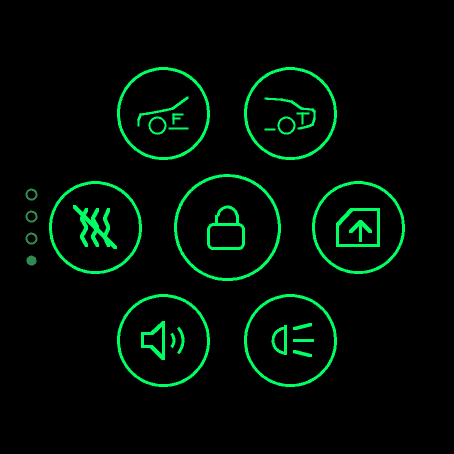
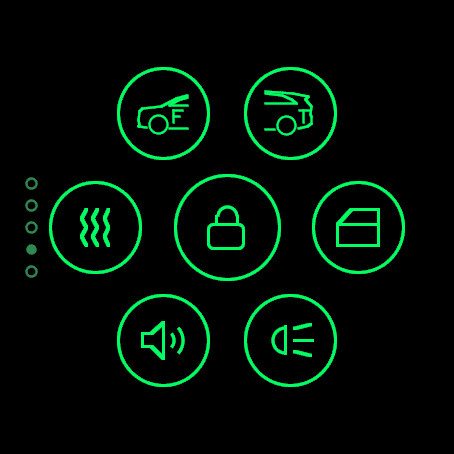
Windows: choose close, lower or vent, each with a confirm tap (#102)
The window icon on the Actions page opens a second screen with close, lower and vent. The phone sends the car's
AUTO_UP_ALL, AUTO_DOWN_ALL and VENT_ALL; the last two only answer "sent". The icon is now a door window, and the
amber warning icon matches it.

diff --git a/android/app/src/main/java/io/github/doubletwist13/orbit/Controller.kt b/android/app/src/main/java/io/github/doubletwist13/orbit/Controller.kt
@@ -14,6 +14,7 @@ import kotlinx.coroutines.flow.asStateFlow
 import kotlinx.coroutines.flow.update
 import kotlinx.coroutines.launch
 import kotlinx.coroutines.withContext
+import mobilegateway.protos.VehicleStateServiceOuterClass.WindowSwitchState
 import java.io.IOException
 
 data class UiState(
@@ -184,7 +185,15 @@ class Controller(context: Context) {
         "flash" -> command("Sending lights", null, progress) { s -> client.flashLights(token(), s.vehicleId) }
         // confirmed by the car's window positions; a car that reports none answers after the next status read
         "windows_close" -> command("Closing windows", { it.windowsClosed != false }, progress) { s ->
-            client.closeWindows(token(), s.vehicleId)
+            client.controlWindows(token(), s.vehicleId, WindowSwitchState.WINDOW_SWITCH_STATE_AUTO_UP_ALL)
+        }
+        // shortcut: no read-back, so "sent" is all we know. A vent stops at no position the car names, and a repeat
+        // vents further; upgrade once a real car shows what the window positions read after each.
+        "windows_vent" -> command("Venting windows", null, progress) { s ->
+            client.controlWindows(token(), s.vehicleId, WindowSwitchState.WINDOW_SWITCH_STATE_VENT_ALL)
+        }
+        "windows_down" -> command("Lowering windows", null, progress) { s ->
+            client.controlWindows(token(), s.vehicleId, WindowSwitchState.WINDOW_SWITCH_STATE_AUTO_DOWN_ALL)
         }
         // read back from the car's HVAC block like the lock is
         "pet_on", "pet_off" -> {
@@ -317,7 +326,8 @@ class Controller(context: Context) {
     private companion object {
         val WATCH_COMMANDS = setOf(
             "status", "lock", "unlock", "climate_on", "climate_off", "frunk_open", "frunk_close", "trunk_open",
-            "trunk_close", "horn", "flash", "windows_close", "pet_on", "pet_off", "charge_start", "charge_stop",
+            "trunk_close", "horn", "flash", "windows_close", "windows_vent", "windows_down",
+            "pet_on", "pet_off", "charge_start", "charge_stop",
             "limit", "port_open", "port_close", "precon_on", "precon_off", "ac_limit",
         )
     }

diff --git a/android/app/src/main/java/io/github/doubletwist13/orbit/LucidClient.kt b/android/app/src/main/java/io/github/doubletwist13/orbit/LucidClient.kt
@@ -260,11 +260,10 @@ class LucidClient(
         LightsControlRequest.newBuilder().setVehicleId(vehicleId).setAction(LightAction.LIGHT_ACTION_FLASH).build(),
     )
 
-    /** Closes all four windows. Only closing is offered: the API's other choices (vent, open all) are left out. */
-    suspend fun closeWindows(refreshToken: String, vehicleId: String) = command(
+    /** Moves all four windows at once (the API has no call for one window): shut, vented a little, or fully down. */
+    suspend fun controlWindows(refreshToken: String, vehicleId: String, state: WindowSwitchState) = command(
         refreshToken, "AllWindowControl",
-        AllWindowControlRequest.newBuilder().setVehicleId(vehicleId)
-            .setState(WindowSwitchState.WINDOW_SWITCH_STATE_AUTO_UP_ALL).build(),
+        AllWindowControlRequest.newBuilder().setVehicleId(vehicleId).setState(state).build(),
     )
 
     suspend fun setPetMode(refreshToken: String, vehicleId: String, on: Boolean) = command(

diff --git a/README.md b/README.md
@@ -13,12 +13,12 @@ touchscreen.**
 Working end to end on the author's setup: a Pixel 10 Pro, a Garmin Venu 3, and one Lucid. From the watch you can see
 state of charge, locked/unlocked, plugged/charging and the inside and outside temperature, then lock, unlock, start
 or stop climate at a temperature you pick (in the watch's own units), open and close the frunk and trunk, honk the
-horn, flash the lights, close all the windows, switch pet mode on or off, start or stop charging, set the charge
-limit, open and close the charge port, start or stop battery preconditioning, set the AC current limit, and refresh.
-The main screen also shows the charging power, an unattended-occupant warning and open-door and tire warnings, and an
-info page lists battery and tire details. Unlock,
-climate, frunk, trunk, horn, close windows and the charging commands ask for a confirm tap; lock, lights and pet mode
-do not. Commands wake a sleeping car first. What comes next is in the
+horn, flash the lights, close, vent or lower all the windows, switch pet mode on or off, start or stop charging, set
+the charge limit, open and close the charge port, start or stop battery preconditioning, set the AC current limit, and
+refresh. The main screen also shows the charging power, an unattended-occupant warning and open-door and tire
+warnings, and an info page lists battery and tire details. Unlock,
+climate, frunk, trunk, horn, every window command and the charging commands ask for a confirm tap; lock, lights and
+pet mode do not. Commands wake a sleeping car first. What comes next is in the
 [milestones](https://github.com/doubletwist13/orbit-for-lucid/milestones) and
 [issues](https://github.com/doubletwist13/orbit-for-lucid/issues); [PLAN.md](PLAN.md) has the design decisions.
 
@@ -88,7 +88,7 @@ same things.
     below when tapped. The bottom line of the screen shows only what is in progress ("Unlocking...") or an error.
     The car only reports while awake, so after 30 minutes the whole screen dims; that is normal, not an error.
 - **Actions page** (below the main screen) is big round icons, with the lock in the middle. Around it, clockwise from
-  the top left: frunk, trunk, close all windows, lights, horn and climate. Tap an icon. The icons on this page act on
+  the top left: frunk, trunk, windows, lights, horn and climate. Tap an icon. The icons on this page act on
   their own, or open a second screen to choose from.
   - **Lock** shows a closed or open padlock for the last state it saw, and opens a choice of lock or unlock that does
     not depend on that state. Unlock then asks you to confirm. The main screen's quick lock opens the same choice.
@@ -96,7 +96,10 @@ same things.
     a T and an arrow over the lid while it is open. They open a choice of open or close, then ask you to confirm. A
     frunk with a gas strut can only be unlatched, so it goes straight to the confirm. Tested on a car with a powered
     frunk; the gas-strut case is untested.
-  - **Windows** closes all four windows after a confirm tap. It is the only window action offered.
+  - **Windows** opens a choice of close (arrow up), lower (arrow down) and vent (a short arrow over a bar), all four
+    windows at once: the car has no call for a single window. Each asks you to confirm. Close waits for the car to
+    report the windows shut; vent and lower only say "sent". A repeated vent opens the windows further. Lower and vent
+    are untested on a car.
   - **Lights** (flash) act at once. **Horn** (one short honk) asks for a confirm tap. Lucid's API gives no way to
     confirm either, so the watch shows "Sending..." and then clears: it means Lucid took the request, not that the
     car acted on it. Watch or listen for the car, and try again if nothing happened. The car ignores these, like the
@@ -177,7 +180,10 @@ Air; a Gravity has its own drawings.
 | <img src="docs/images/icons/frunk-open.png" alt="Car front, arrow"> | Open the frunk |
 | <img src="docs/images/icons/trunk.png" alt="Car rear"> | Close the trunk |
 | <img src="docs/images/icons/trunk-open.png" alt="Car rear, arrow"> | Open the trunk |
-| <img src="docs/images/icons/windows.png" alt="Window, up arrow"> | Close all windows |
+| <img src="docs/images/icons/windows.png" alt="Door window"> | Windows: choose to close, vent or lower them all |
+| <img src="docs/images/icons/windows-up.png" alt="Door window, arrow up"> | Close all windows |
+| <img src="docs/images/icons/windows-down.png" alt="Door window, arrow down"> | Lower all windows |
+| <img src="docs/images/icons/windows-vent.png" alt="Door window, short arrow over a bar"> | Vent all windows |
 | <img src="docs/images/icons/lights.png" alt="Headlight"> | Flash the lights |
 | <img src="docs/images/icons/horn.png" alt="Speaker"> | Honk the horn |
 | <img src="docs/images/icons/hvac.png" alt="Wavy lines"> | Climate on, with a set point |
@@ -212,6 +218,7 @@ read the differences as meaningful.
        windows and tire pressures" width="200">
   <img src="docs/images/watch-actions.png"
        alt="Actions: lock in the middle with frunk, trunk, climate, windows, horn and lights round it" width="200">
+  <img src="docs/images/watch-windows.png" alt="Choose close all windows, lower them or vent them" width="200">
   <img src="docs/images/watch-charging.png"
        alt="Charging: the bolt (start or stop) in the middle, with the charge port above, preconditioning below, the
        charge limit (80%) on the left and the AC current limit on the right: 80A set, capped by a 40A charger"
@@ -244,7 +251,7 @@ shown collapsed while charging.
   The app uses the first vehicle the account returns and has no way to pick another. Multi-vehicle accounts are
   untested and probably don't work properly; reports and patches are welcome. An account with no vehicle shows
   "No car found" on the watch.
-- **The car ignores some commands in gear or while moving.** Many actions, close all windows among them, are sent and
+- **The car ignores some commands in gear or while moving.** Many actions, the window commands among them, are sent and
   accepted by Lucid, but the car does nothing if it is in drive or reverse, or moving. The watch's "sent" toast only
   means the request went out, not that the car did it. Park the car first; a close that is not confirmed shows
   "Not confirmed" after about 105 seconds, in a toast and on the main screen.
@@ -263,7 +270,7 @@ shown collapsed while charging.
   with the watch.
 - **Not in any app store.** You build both apps yourself and sideload them. See Building.
 - **Limited commands.** Charging has start and stop, the limit, the port, battery preconditioning and the AC current
-  limit only: no schedule. Nor are other window actions (vent, open), seat or steering wheel heat, defrost or
+  limit only: no schedule. Nor are single windows (all four move together), seat or steering wheel heat, defrost or
   location. Some of that is in the issues; some, like seat heat, is left to the car and Lucid's own app on purpose.
   Start and stop, the limit, the charge port, preconditioning and the AC current limit have been tried on one car.
   The AC amps shown are what was set: a pick above the charger's maximum is kept as set, and the car draws the lower

diff --git a/docs/watch-design.md b/docs/watch-design.md
@@ -49,17 +49,18 @@ readable, so check them for the Venu X1 and fenix):
    efficiency from the odometer and battery energy, since the API has no trip or efficiency data.
 
 7. **One Actions page of seven icons**, a "flower": the lock in the middle (the one used most) and six round it at about
-   0.17 x width each on the Venu 3: frunk and trunk on top, climate and close-all-windows at the sides, the lights and
-   horn below. Lock, frunk, trunk and climate open a choice screen (so the choice never depends on cached state);
-   the lights and windows act at once. Unlock, climate, horn, frunk, trunk and windows ask for a confirm tap; lock,
+   0.17 x width each on the Venu 3: frunk and trunk on top, climate and the windows at the sides, the lights and
+   horn below. Lock, frunk, trunk, windows and climate open a choice screen (so the choice never depends on cached
+   state); the lights act at once. The windows' choice is close, lower and vent, all four at once (the car has no
+   call for one). Unlock, climate, horn, frunk, trunk and every window command ask for a confirm tap; lock,
    lights and pet mode do not, and every send shows a toast so a tap is seen to count. Climate's choice screen is off,
    on (with a set point) and pet mode. Refresh moved to the About page (tap it).
 8. **Dropped, on purpose.** A separate Climate page (defrost, max A/C, seat and steering wheel heat), showing their
    state, and a Signals page: those are things you do from the driver's seat, where the car's own controls are, and
    the car's auto-climate may already switch them on when it preconditions (#89, closed). The phone app stays
    information only (no controls: Lucid's own app has them). Left out of the app altogether: panic alarm, sentry and
-   security, software update, keys, and the window actions other than close-all. Windows are close-all only; the car
-   ignores many commands in gear or while moving (see the README's Limitations).
+   security, software update, and keys. The car ignores many commands in gear or while moving (see the README's
+   Limitations).
 
 ## Charging page
 
@@ -111,7 +112,7 @@ ones already used.
 | Tire pressures | `chassis.*_tire_pressure_bar` (4), warning and sensor flags, last-updated time | Yes (info, icon) |
 | Doors, lids, port | `body.front_cargo`, `rear_cargo`, 4 doors, `charge_port` (open/closed/ajar) | Lids, doors, port |
 | Charge limit | `charging.charge_limit_percent` | Yes (Charging page) |
-| Windows | `body.window_position` (4), `all_windows_position` | Only to confirm close-all |
+| Windows | `body.window_position` (4), `all_windows_position` | Open or closed; confirms close |
 | Cell temperatures | `battery.min_cell_temp`, `max_cell_temp` | Yes (info page) |
 
 Other fields that could be shown or used:

diff --git a/docs/protocol.md b/docs/protocol.md
@@ -19,12 +19,13 @@ message whose `v` it does not know.
 | `wv` | string | Optional: the watch app's version, e.g. `0.3.0`, shown on the phone app's status screen |
 
 - Commands: `status`, `lock`, `unlock`, `climate_on`, `climate_off`, `frunk_open`, `frunk_close`, `trunk_open`,
-  `trunk_close`, `horn`, `flash`, `windows_close`, `pet_on`, `pet_off`, `charge_start`, `charge_stop`, `limit`,
+  `trunk_close`, `horn`, `flash`, `windows_close`, `windows_vent`,
+  `windows_down`, `pet_on`, `pet_off`, `charge_start`, `charge_stop`, `limit`,
   `port_open`, `port_close`, `precon_on`, `precon_off`, `ac_limit`.
 - `status` returns the phone's cached state when it is under 4 s old, otherwise it fetches once.
-- The watch asks for a confirm tap before it sends `unlock`, `climate_on`, `climate_off`, `horn`, `windows_close`, any
-  frunk or trunk command, or any charging command (`charge_start`, `charge_stop`, `limit`, `port_open`, `port_close`,
-  `precon_on`, `precon_off`, `ac_limit`).
+- The watch asks for a confirm tap before it sends `unlock`, `climate_on`, `climate_off`, `horn`, `windows_close`,
+  `windows_vent`, `windows_down`, any frunk or trunk command, or any charging command (`charge_start`, `charge_stop`,
+  `limit`, `port_open`, `port_close`, `precon_on`, `precon_off`, `ac_limit`).
   The phone does not repeat the confirmation. `lock`, `flash` and `status` are sent without one; the watch shows a
   toast for those and for the confirmed ones once sent.
 - The charging commands wait for the car to report the change, like `lock`. `charge_start` is done when the charge state
@@ -49,7 +50,9 @@ message whose `v` it does not know.
   once, which means only that Lucid accepted the request, not that the car honked or flashed. Progress text says
   "Sending", never "Honking". `windows_close` closes all four windows and waits for the car to report them closed (each
   one fully closed or at its upper stop, or the "all windows" value); a car that reports no window state answers after
-  the next status fetch. The API's other window choices (vent, open all) are not offered. The frunk and trunk commands
+  the next status fetch. `windows_vent` (all windows a little down; a repeat goes further) and `windows_down` (all the
+  way) have no state to read back, so like `horn` they answer `ok` once Lucid accepts them. The API moves all four
+  windows at once, never one. The frunk and trunk commands
   wait for the car to report the lid open or closed, like
   `lock`; a car that reports no state for a lid answers after the next status fetch.
 - Lucid accepts a command without saying whether the car will act on it: many are ignored while the car is in gear (D
